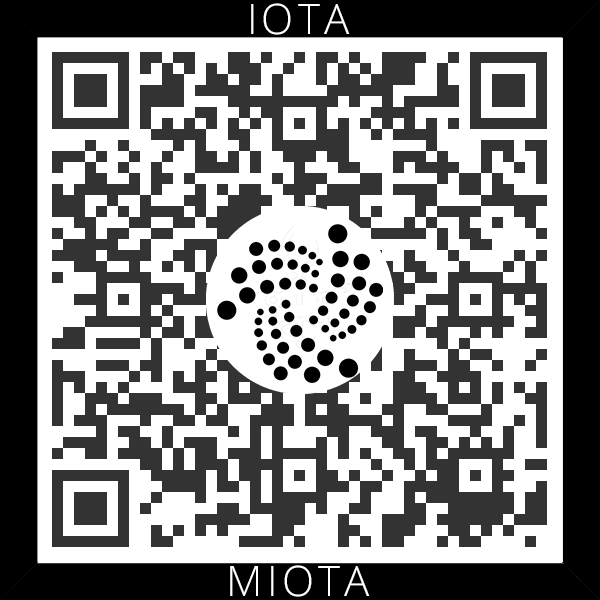
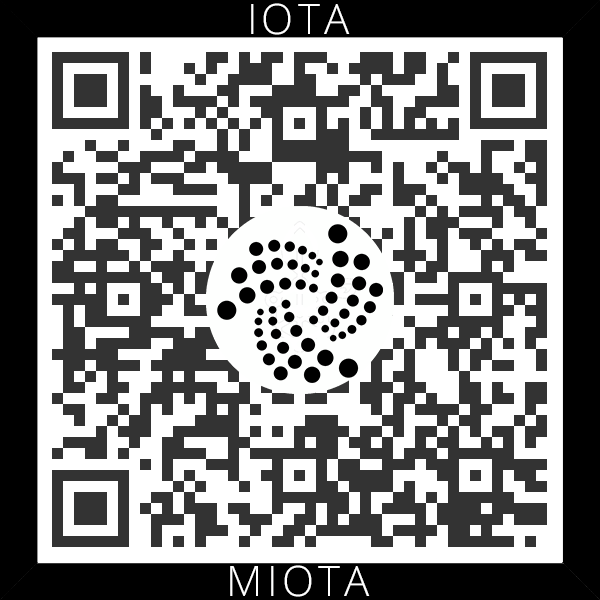
Changed crypto addresses

Changed region(s): [[0.06, 0.06, 0.93, 0.93], [0.84, 0.24, 0.93, 0.36], [0.84, 0.75, 0.93, 0.84]]

diff --git a/website/donation.html b/website/donation.html
@@ -172,12 +172,12 @@
 			<ul role="list" class="p-8 text-center mx-auto grid grid-cols-1 gap-x-3 gap-y-8 sm:grid-cols-3 md:gap-x-6 lg:max-w-6xl lg:gap-x-3 lg:gap-y-12 xl:grid-cols-3">
 				<li>
 					<div class="aspect-w-3 aspect-h-2">
-						<img id="btc-qr" class="m-auto object-cover shadow-lg rounded-lg" src="images/crypto/Bitcoin_QR.png" alt="Bitcoin QR Code">
+						<img id="btc-qr" class="m-auto object-cover shadow-lg rounded-lg" src="images/crypto/BTC_QR.png" alt="Bitcoin QR Code">
 					</div>
 				</li>
 				<li>
 					<div class="aspect-w-3 aspect-h-2">
-						<img id="eth-qr" class="m-auto object-cover shadow-lg rounded-lg" src="images/crypto/Ethereum_QR.png" alt="Ethereum QR Code">
+						<img id="eth-qr" class="m-auto object-cover shadow-lg rounded-lg" src="images/crypto/ETH_QR.png" alt="Ethereum QR Code">
 					</div>
 				</li>
 				<li>
@@ -194,17 +194,17 @@
 			<ul role="list" class="p-8 text-center mx-auto grid grid-cols-1 gap-x-3 gap-y-8 sm:grid-cols-3 md:gap-x-6 lg:max-w-6xl lg:gap-x-3 lg:gap-y-12 xl:grid-cols-3">
 				<li>
 					<div class="aspect-w-3 aspect-h-2">
-						<img id="xmr-qr" class="m-auto object-cover shadow-lg rounded-lg" src="images/crypto/Monero_QR.png" alt="Monero QR Code">
+						<img id="xmr-qr" class="m-auto object-cover shadow-lg rounded-lg" src="images/crypto/XMR_QR.png" alt="Monero QR Code">
 					</div>
 				</li>
 				<li>
 					<div class="aspect-w-3 aspect-h-2">
-						<img id="dash-qr" class="m-auto object-cover shadow-lg rounded-lg" src="images/crypto/Dash_QR.png" alt="Dash QR Code">
+						<img id="dash-qr" class="m-auto object-cover shadow-lg rounded-lg" src="images/crypto/DASH_QR.png" alt="Dash QR Code">
 					</div>
 				</li>
 				<li>
 					<div class="aspect-w-3 aspect-h-2">
-						<img id="zec-qr" class="m-auto object-cover shadow-lg rounded-lg" src="images/crypto/ZCASH_QR.png" alt="Zcash QR Code">
+						<img id="zec-qr" class="m-auto object-cover shadow-lg rounded-lg" src="images/crypto/ZEC_QR.png" alt="Zcash QR Code">
 					</div>
 				</li>
 			</ul>

diff --git a/website/js/donation.js b/website/js/donation.js
@@ -1,20 +1,20 @@
 document.getElementById("btc-qr").addEventListener("click", () => {
-  copyToClipboard('bc1qchcpkcy6ga3dxwufvxuaf6qpdg4c6ryemmqfle');
+  copyToClipboard('bc1qjcj60rdve5nys72fy42f4yv6s8t34s7x3nh03d');
   alert('Bitcoin address copied to your clipboard!');
 });
 
 document.getElementById("eth-qr").addEventListener("click", () => {
-  copyToClipboard('0x16620E8f37520E25CED7915A4f538b97Fcd3E76C');
+  copyToClipboard('0xa4B2b80A4d5C577e1Ddb41096c2BD85D4A6e0bb7');
   alert('Ethereum address copied to your clipboard!');
 });
 
 document.getElementById("iota-qr").addEventListener("click", () => {
[2 lines of base64/hex data omitted]
   alert('IOTA address copied to your clipboard!');
 });
 
 document.getElementById("xmr-qr").addEventListener("click", () => {
[2 lines of base64/hex data omitted]
   alert('Monero address copied to your clipboard!');
 });
 
@@ -24,6 +24,6 @@ document.getElementById("dash-qr").addEventListener("click", () => {
 });
 
 document.getElementById("zec-qr").addEventListener("click", () => {
-  copyToClipboard('t1dVuXeSvuMrVPRcJ7hVNP7CLuvZoH8PbKz');
+  copyToClipboard('t1MGdKL7jcX9dGRThSyXBrkgy8wX6XH577i');
   alert('Zcash address copied to your clipboard!');
 });
